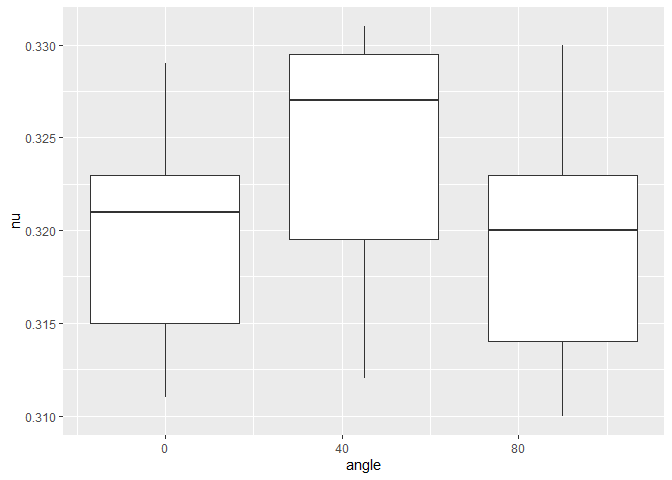
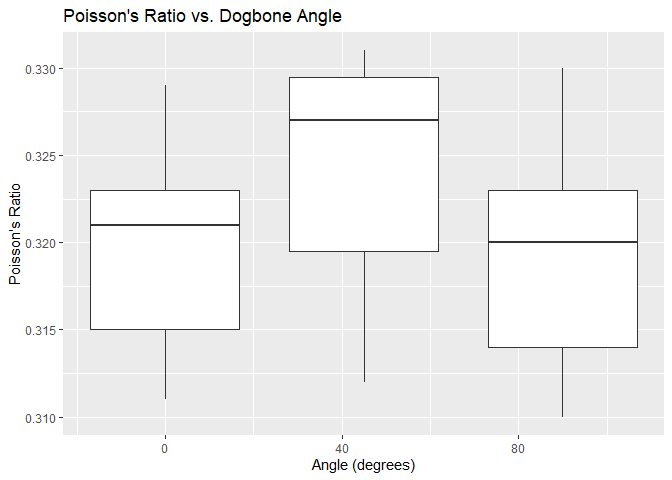
Resubmit assignment 3

diff --git a/challenges/c03-stang-assignment.md b/challenges/c03-stang-assignment.md
@@ -155,7 +155,6 @@ df_stang_long <-
   pivot_longer(
     names_to = c(".value", "angle"),
     names_sep = "_",
-    values_to = "val",
     starts_with("E") | starts_with("nu"),
     values_drop_na = TRUE,
   ) %>% 
@@ -246,6 +245,26 @@ df_stang_long %>% summary
     ##  3rd Qu.:0.3277  
     ##  Max.   :0.3310
 
+``` r
+df_stang_long %>% distinct(alloy)
+```
+
+    ## # A tibble: 1 × 1
+    ##   alloy  
+    ##   <chr>  
+    ## 1 al_24st
+
+``` r
+df_stang_long %>% distinct(angle)
+```
+
+    ## # A tibble: 3 × 1
+    ##   angle
+    ##   <int>
+    ## 1     0
+    ## 2    45
+    ## 3    90
+
 **Observations**:
 
 - Is there “one true value” for the material properties of Aluminum?
@@ -273,7 +292,10 @@ df_stang_long %>% summary
 
 df_stang_long %>% 
   ggplot(aes(x = angle, y = nu, group = angle)) +
-  geom_boxplot()
+  geom_boxplot() +
+  xlab("Angle (degrees)") +
+  ylab("Poisson's Ratio") +
+  ggtitle("Poisson's Ratio vs. Dogbone Angle")
 ```
 
 ![](c03-stang-assignment_files/figure-gfm/q3-task-1.png)<!-- -->
@@ -308,7 +330,9 @@ df_stang_long %>%
 
   ggplot(aes(nu, E, color = as_factor(thick))) +
   geom_point(size = 3) +
-  theme_minimal()
+  theme_minimal() +
+  ylab("E (ksi)") +
+  ggtitle("Young's Modulus vs. nu with thicknesses")
 ```
 
 ![](c03-stang-assignment_files/figure-gfm/q4-vis-1.png)<!-- -->
